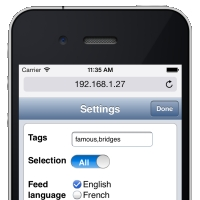
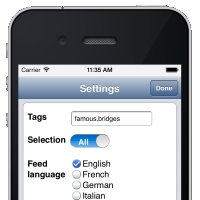
update preview images

diff --git a/part1/index.html b/part1/index.html
@@ -40,7 +40,7 @@
 							<div class="unit size2of3 firstUnit">
 
 								<div class="tutIntro">
-									<img src="images/preview.png" class="tut_preview" /><!-- Feel free to use youw own 200x200 image. Must be royalty free or similar license -->
+									<img src="images/preview.jpg" class="tut_preview" /><!-- Feel free to use youw own 200x200 image. Must be royalty free or similar license -->
 									<div class="introContainer">
 										<h2>Part I - Getting Started with Dojo Mobile</h2>
 										<p class="summary">Content on the web is evolving at a rapid pace, and the path is

diff --git a/part3/index.html b/part3/index.html
@@ -40,7 +40,7 @@
 							<div class="unit size2of3 firstUnit">
 								<!-- BEGIN YOUR TUTORIAL HERE -->
 								<div class="tutIntro">
-									<img src="images/preview.png" class="tut_preview" /><!-- Feel free to use youw own 200x200 image. Must be royalty free or similar license -->
+									<img src="images/preview.jpg" class="tut_preview" /><!-- Feel free to use youw own 200x200 image. Must be royalty free or similar license -->
 									<div class="introContainer">
 										<h2>Part III - FlickerView: Implementing  FeedView</h2>
 										<p class="summary">
